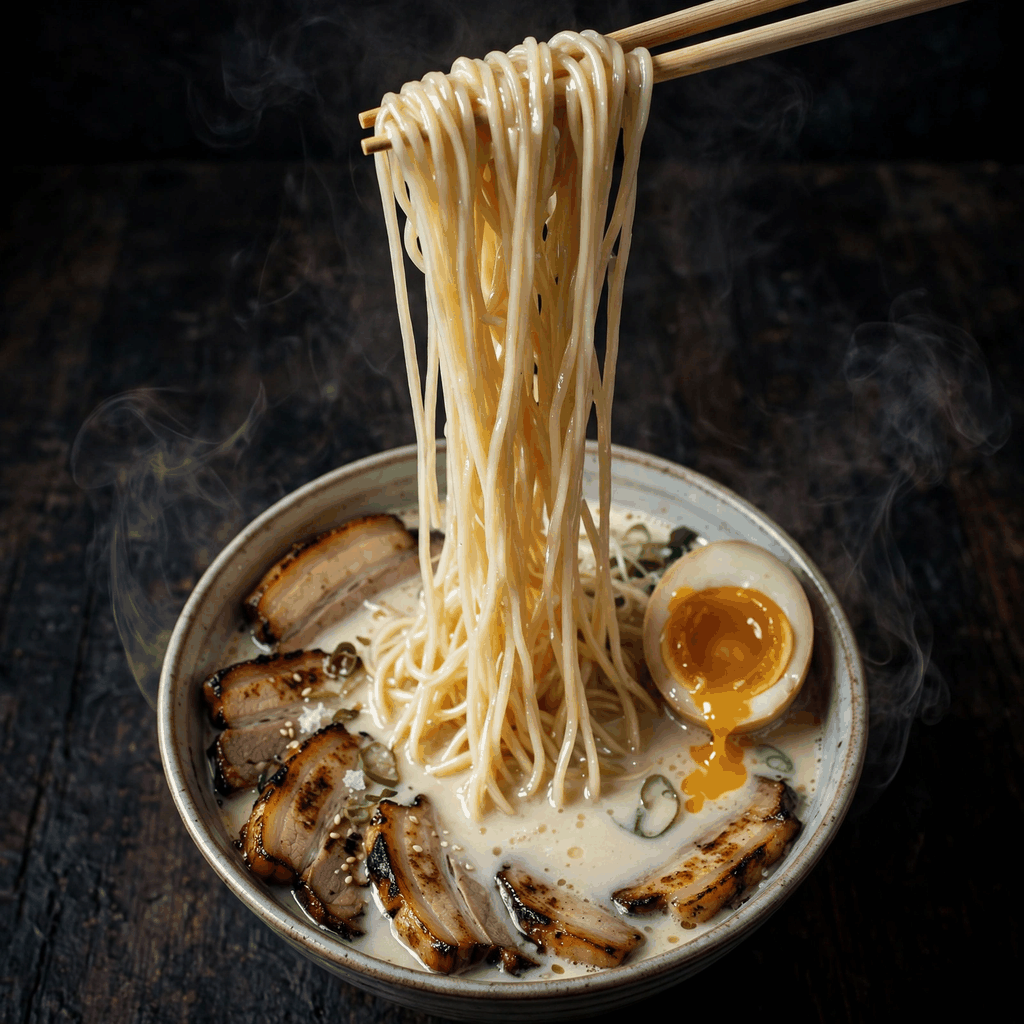
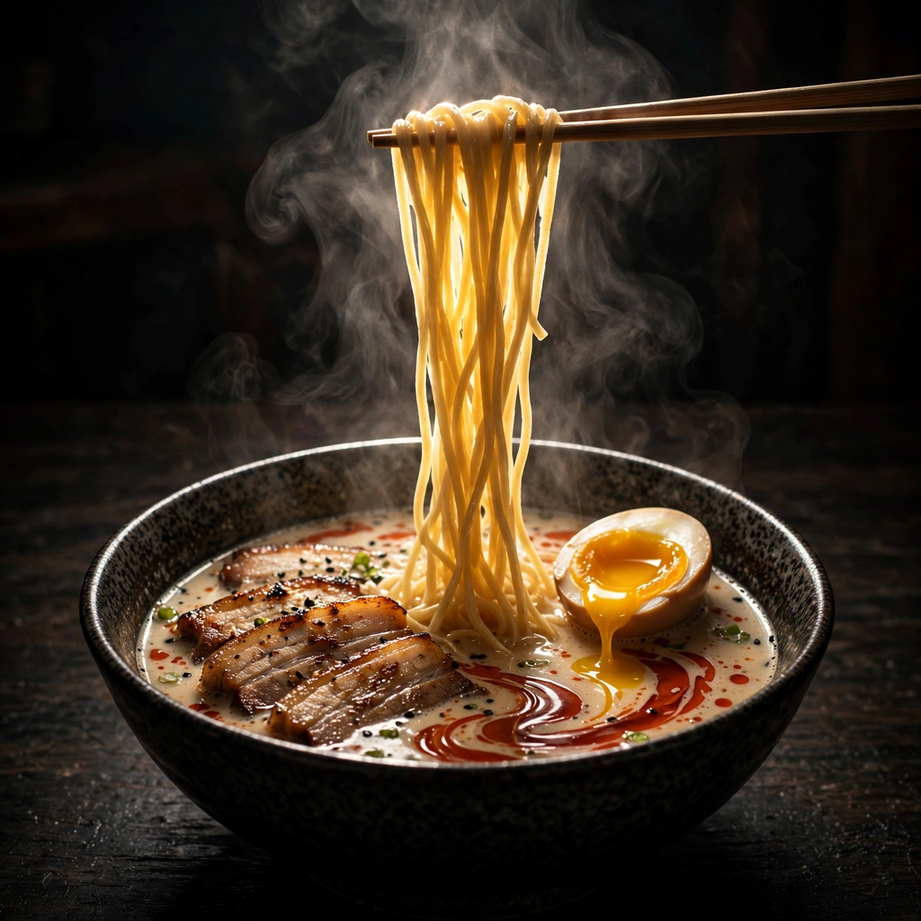
round 2b b1

diff --git a/main.py b/main.py
@@ -1,18 +1,19 @@
-# Round 2 entry: copy the bundled entry.png byte-for-byte to the output dir.
+"""Food-picture entry: copy the bundled image to the output directory.
+
+The image itself is the entry; this program only places it where the
+grader expects it, deterministically and without any network access.
+"""
+
 import os
 import shutil
-import sys
 
 
 def main():
-    here = os.path.dirname(os.path.abspath(__file__))
-    src = os.path.join(here, "entry.png")
     out_dir = os.environ.get("MAKEFUN_OUTPUT_DIR", "/output")
     os.makedirs(out_dir, exist_ok=True)
-    dst = os.path.join(out_dir, "entry.png")
-    shutil.copyfile(src, dst)
-    return 0
+    src = os.path.join(os.path.dirname(os.path.abspath(__file__)), "entry.png")
+    shutil.copyfile(src, os.path.join(out_dir, "entry.png"))
 
 
 if __name__ == "__main__":
-    sys.exit(main())
+    main()
